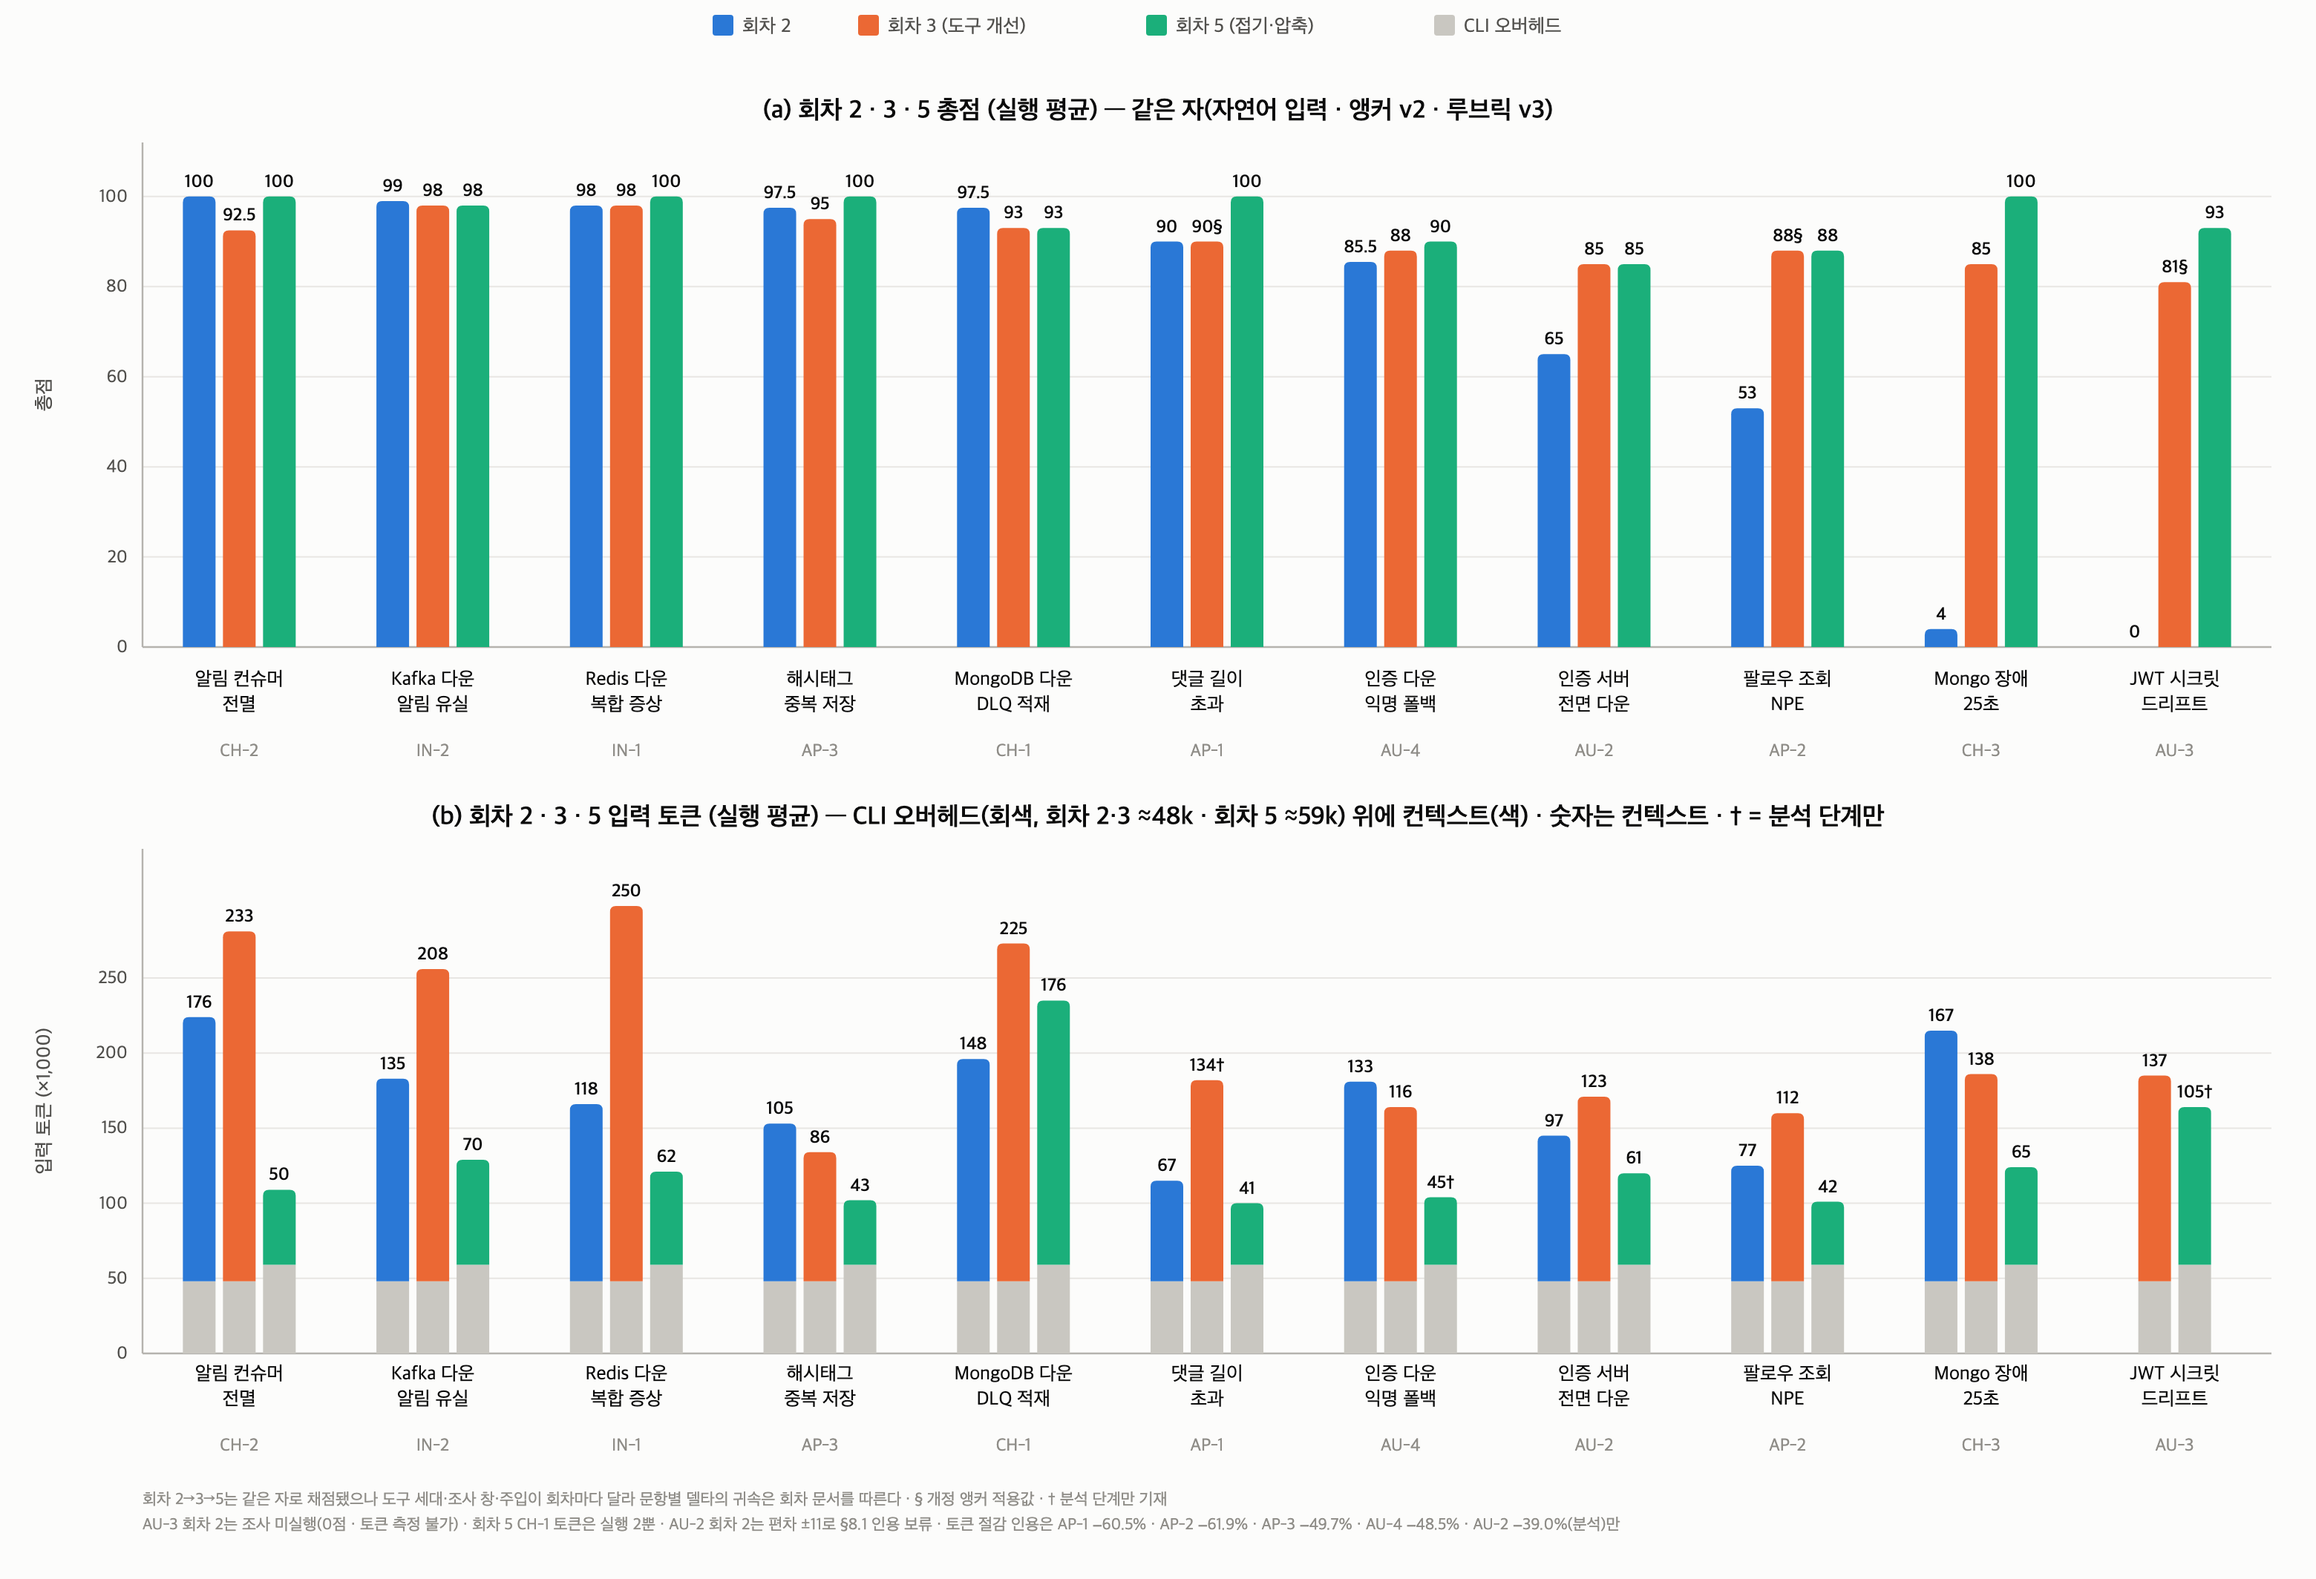
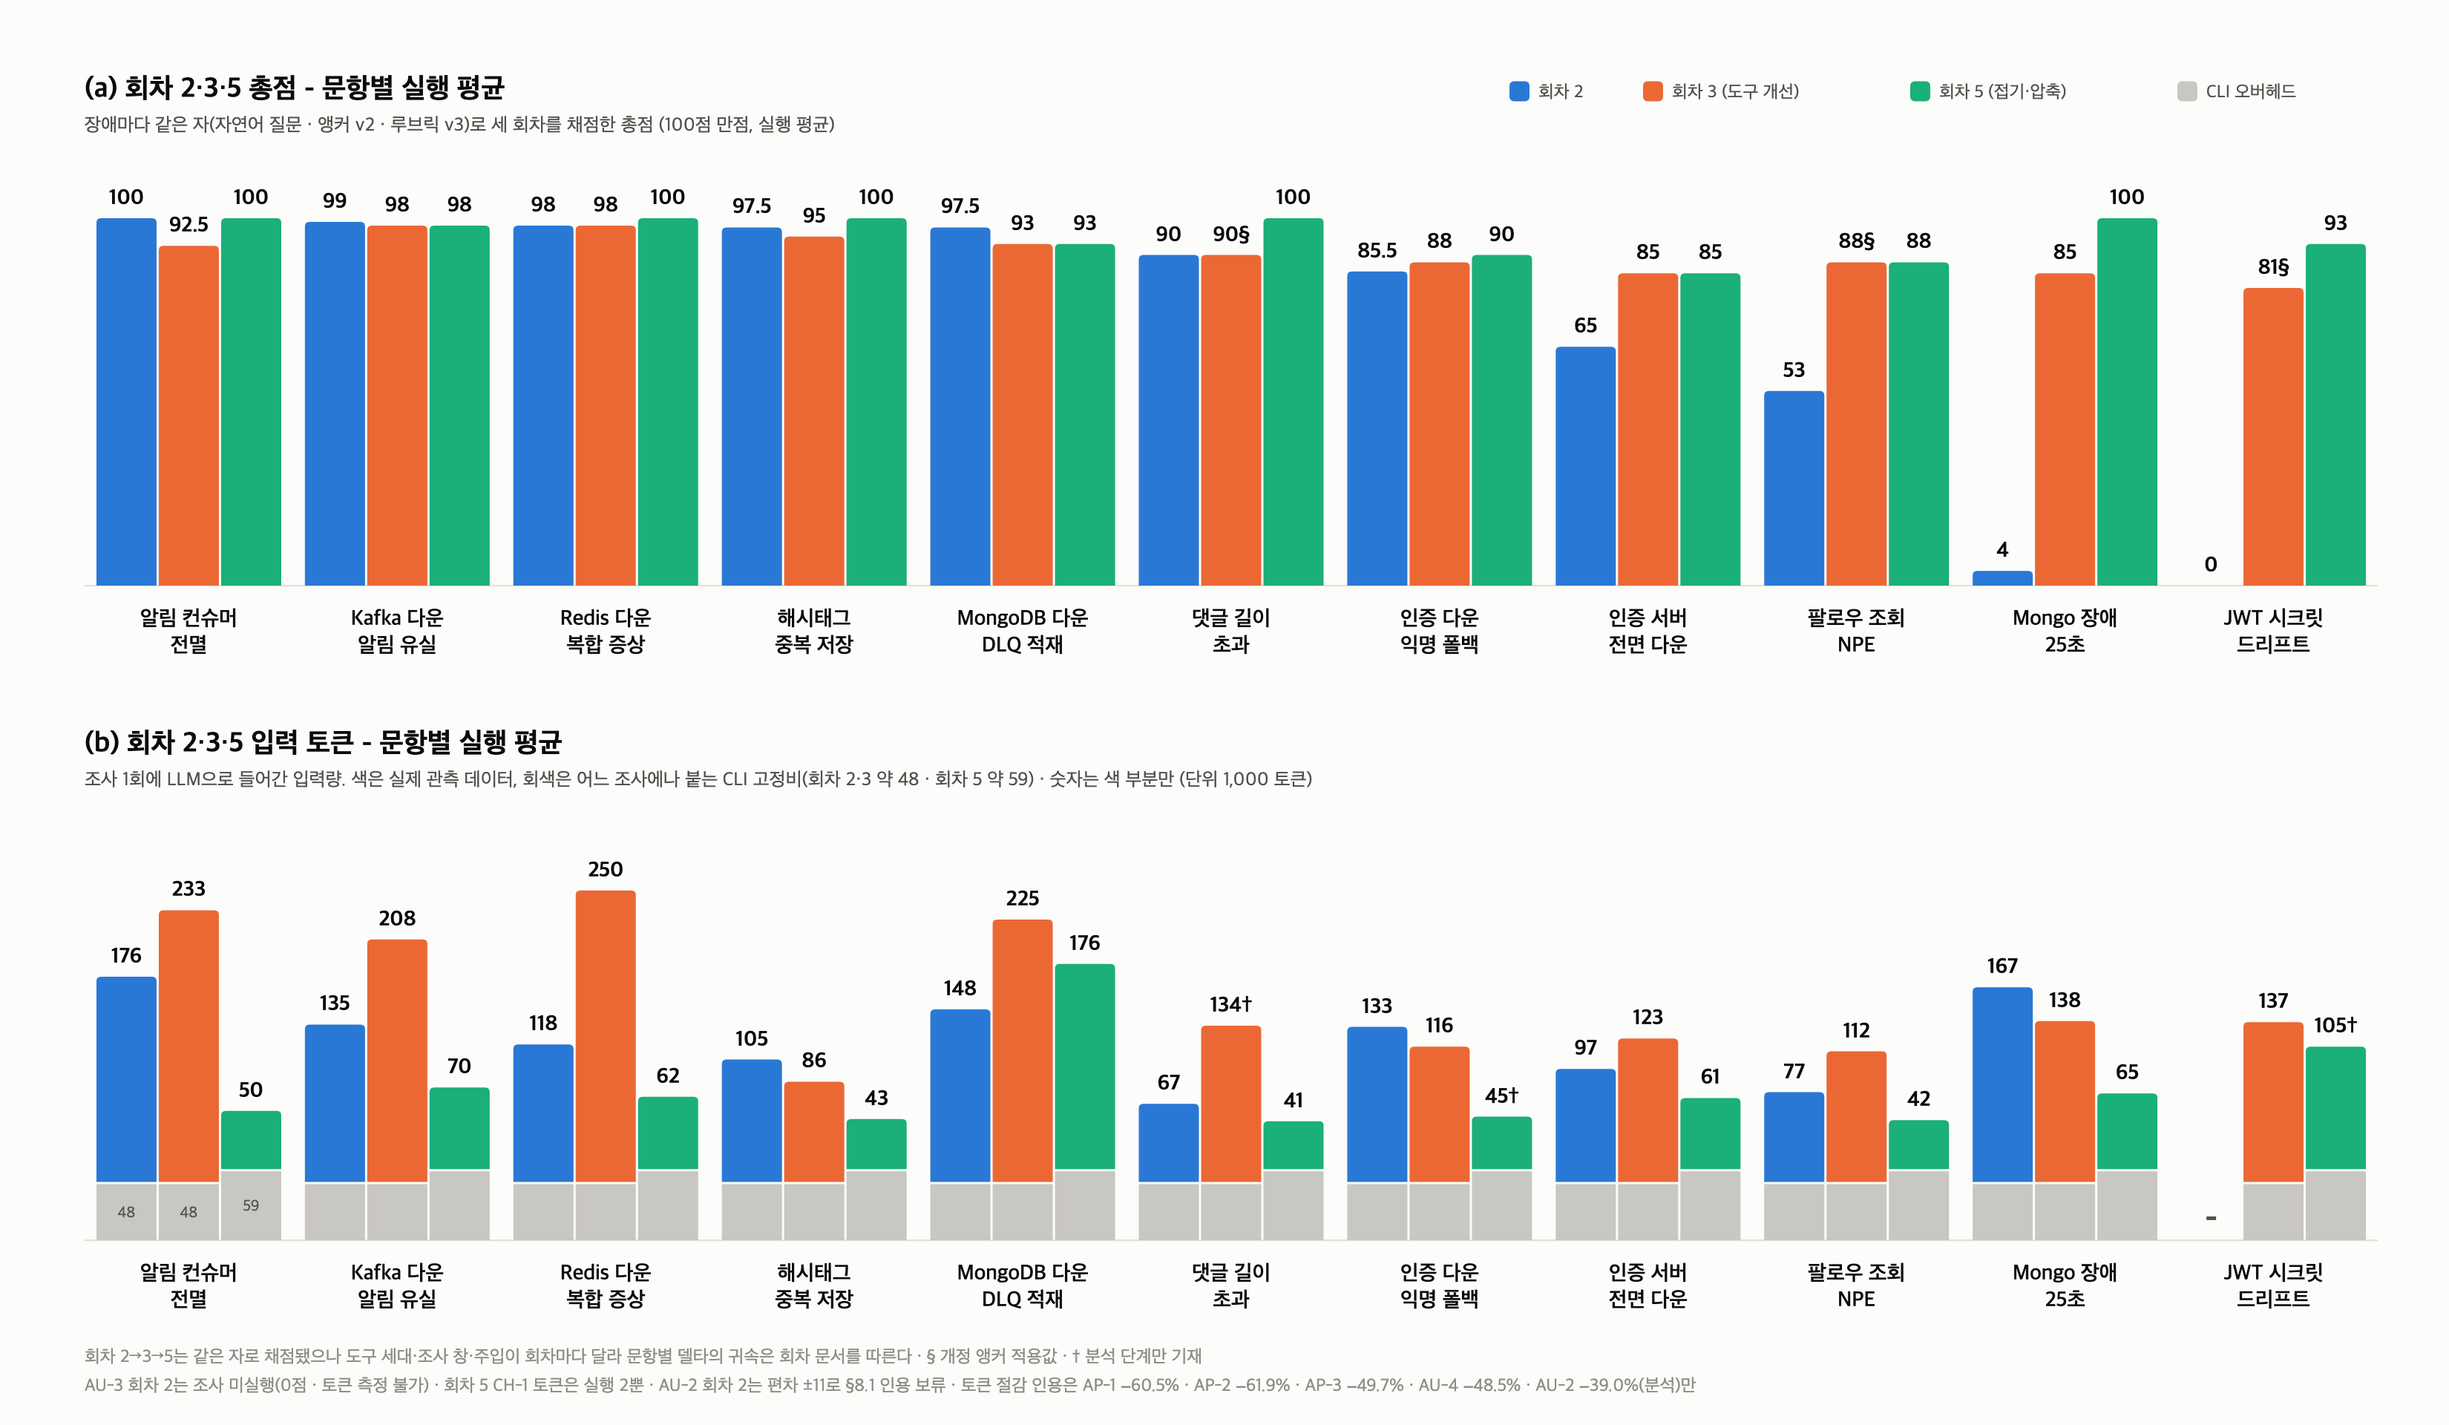
README 현행화(회차 2~5·프로젝트 구조) · 회차 2·3·5 통합 차트를 round-2 판형으로 재작성

diff --git a/docs/charts/make-round235-chart.js b/docs/charts/make-round235-chart.js
@@ -1,0 +1,144 @@
+/**
+ * docs/charts/round-2-3-5-score-tokens.svg 생성기.
+ *
+ * make-round2-chart.js와 같은 판형이다 — 데이터·문안은 기존 SVG(e71aa30) 그대로 두고,
+ * 문항 ID 행을 지우고 눈금 대신 막대 위 직접 라벨을 쓰는 판독성 개선판.
+ *
+ *   node docs/charts/make-round235-chart.js
+ *
+ * 시리즈 색은 회차 2 파랑 · 회차 3 주황 · 회차 5 청록 — 3색 조합은 CVD ΔE 9.2로 검증됐고,
+ * 청록은 표면 대비 2.74:1이라 색만으로는 안 읽힌다 → 모든 막대에 값 라벨을 직접 붙인다.
+ */
+const fs = require('fs');
+const path = require('path');
+
+// 채점 대장 기준 실행 평균. tok은 컨텍스트 토큰(오버헤드 제외, ×1,000).
+// s2/s3/s5 = 회차별 총점, t2/t3/t5 = 회차별 토큰. null = 측정 불가(AU-3 회차 2 미실행).
+// § = 개정 앵커 적용값 · † = 분석 단계만 기재 — 라벨 문자열에 그대로 싣는다.
+// 문항 ID는 출처 추적용으로만 둔다 - 차트에는 그리지 않는다.
+// 순서는 회차 2 총점 내림차순 — round-2 차트와 같은 자리여야 옆에 놓고 대조가 된다.
+const ITEMS = [
+  { id: 'CH-2', name: ['알림 컨슈머', '전멸'],     s: [100, '92.5', 100],   t: [176, 233, 50] },
+  { id: 'IN-2', name: ['Kafka 다운', '알림 유실'], s: [99, 98, 98],         t: [135, 208, 70] },
+  { id: 'IN-1', name: ['Redis 다운', '복합 증상'], s: [98, 98, 100],        t: [118, 250, 62] },
+  { id: 'AP-3', name: ['해시태그', '중복 저장'],   s: ['97.5', 95, 100],    t: [105, 86, 43] },
+  { id: 'CH-1', name: ['MongoDB 다운', 'DLQ 적재'],s: ['97.5', 93, 93],     t: [148, 225, 176] },
+  { id: 'AP-1', name: ['댓글 길이', '초과'],       s: [90, '90§', 100],     t: [67, '134†', 41] },
+  { id: 'AU-4', name: ['인증 다운', '익명 폴백'],  s: ['85.5', 88, 90],     t: [133, 116, '45†'] },
+  { id: 'AU-2', name: ['인증 서버', '전면 다운'],  s: [65, 85, 85],         t: [97, 123, 61] },
+  { id: 'AP-2', name: ['팔로우 조회', 'NPE'],      s: [53, '88§', 88],      t: [77, 112, 42] },
+  { id: 'CH-3', name: ['Mongo 장애', '25초'],      s: [4, 85, 100],         t: [167, 138, 65] },
+  { id: 'AU-3', name: ['JWT 시크릿', '드리프트'],  s: [0, '81§', 93],       t: [null, 137, '105†'] },
+];
+
+const SERIES = [
+  { label: '회차 2',             color: '#2a78d6', overhead: 48 },
+  { label: '회차 3 (도구 개선)', color: '#eb6834', overhead: 48 },
+  { label: '회차 5 (접기·압축)', color: '#1baf7a', overhead: 59 },
+];
+const C = {
+  bg: '#fcfcfb', gray: '#c9c7c1',
+  ink: '#0b0b0b', mid: '#52514e', faint: '#8f8d88', rule: '#e2e0dc',
+};
+const FONT = "'Malgun Gothic','맑은 고딕','Apple SD Gothic Neo',sans-serif";
+
+const W = 2200, H = 1280;
+const PAD = { left: 76, right: 64 };
+const PLOT_W = W - PAD.left - PAD.right;
+const PLOT_H = 330;
+const A_TOP = 196, B_TOP = 784;
+const STEP = PLOT_W / ITEMS.length;
+const BARW = 54, PITCH = BARW + 2;      // 그룹 안 이웃 막대는 표면 2px 간격
+
+const num = (v) => parseFloat(String(v));  // '92.5' · '134†' → 수치
+const esc = (s) => String(s).replace(/&/g, '&amp;').replace(/</g, '&lt;');
+const out = [];
+const push = (s) => out.push(s);
+
+const text = (x, y, s, { size = 17, fill = C.ink, anchor = 'middle', weight = 400 } = {}) =>
+  `<text x="${x}" y="${y}" font-size="${size}" fill="${fill}" text-anchor="${anchor}"` +
+  `${weight !== 400 ? ` font-weight="${weight}"` : ''}>${esc(s)}</text>`;
+
+/** 위쪽 두 모서리만 둥근 막대. h가 반지름보다 작으면 사각으로 떨어진다. */
+function bar(cx, base, h, fill, r = 4) {
+  if (h <= 0) return '';
+  const x = cx - BARW / 2, y = base - h, rr = Math.min(r, h);
+  return `<path d="M${x} ${base} V${y + rr} Q${x} ${y} ${x + rr} ${y} H${x + BARW - rr} ` +
+         `Q${x + BARW} ${y} ${x + BARW} ${y + rr} V${base} Z" fill="${fill}"/>`;
+}
+
+/** 패널 하나 — 제목·부제는 왼쪽 정렬, 눈금 대신 막대 위 직접 라벨. 문항 ID 행은 없다. */
+function panel(top, title, subtitle, draw) {
+  const base = top + PLOT_H;
+  push(text(PAD.left, top - 108, title, { size: 25, weight: 700, anchor: 'start' }));
+  push(text(PAD.left, top - 78, subtitle, { size: 17, fill: C.mid, anchor: 'start' }));
+  push(`<line x1="${PAD.left}" y1="${base}" x2="${W - PAD.right}" y2="${base}" stroke="${C.rule}" stroke-width="1.5"/>`);
+  ITEMS.forEach((item, i) => {
+    const cx = PAD.left + STEP * i + STEP / 2;
+    SERIES.forEach((se, k) => draw(item, se, k, cx + (k - 1) * PITCH, base));
+    push(text(cx, base + 36, item.name[0], { size: 19, weight: 600 }));
+    push(text(cx, base + 60, item.name[1], { size: 19, weight: 600 }));
+  });
+}
+
+push(`<svg xmlns="http://www.w3.org/2000/svg" width="${W}" height="${H}" viewBox="0 0 ${W} ${H}" font-family="${FONT}">`);
+push(`<rect width="${W}" height="${H}" fill="${C.bg}"/>`);
+
+// 범례 — 오른쪽 위 한 번. 회색 오버헤드는 (b)에만 나오지만 항목은 여기 같이 둔다.
+{
+  const entries = [...SERIES.map((s) => [s.label, s.color]), ['CLI 오버헤드', C.gray]];
+  const widths = entries.map(([label]) => 26 + label.length * 15 + 34);
+  let x = W - PAD.right - widths.reduce((a, b) => a + b, 0);
+  const y = A_TOP - 108;
+  entries.forEach(([label, color], i) => {
+    push(`<rect x="${x}" y="${y - 15}" width="18" height="18" rx="4" fill="${color}"/>`);
+    push(text(x + 26, y, label, { size: 16, fill: C.mid, anchor: 'start' }));
+    x += widths[i];
+  });
+}
+
+// (a) 총점 — 값은 막대마다 직접 붙는다. 0점은 막대 없이 숫자만.
+const scoreScale = (v) => (v / 100) * PLOT_H;
+panel(A_TOP,
+  '(a) 회차 2·3·5 총점 - 문항별 실행 평균',
+  '장애마다 같은 자(자연어 질문 · 앵커 v2 · 루브릭 v3)로 세 회차를 채점한 총점 (100점 만점, 실행 평균)',
+  (item, se, k, cx, base) => {
+    const h = scoreScale(num(item.s[k]));
+    push(bar(cx, base, h, se.color));
+    push(text(cx, base - h - 12, item.s[k], { size: 19, weight: 700 }));
+  });
+
+// (b) 입력 토큰 — 회색 오버헤드 위에 컨텍스트를 쌓는다. 숫자는 컨텍스트만.
+const TOK_MAX = 315;                    // 최대 250 + 오버헤드 59
+const tokScale = (v) => (v / TOK_MAX) * PLOT_H;
+panel(B_TOP,
+  '(b) 회차 2·3·5 입력 토큰 - 문항별 실행 평균',
+  '조사 1회에 LLM으로 들어간 입력량. 색은 실제 관측 데이터, 회색은 어느 조사에나 붙는 CLI 고정비(회차 2·3 약 48 · 회차 5 약 59) · 숫자는 색 부분만 (단위 1,000 토큰)',
+  (item, se, k, cx, base) => {
+    if (item.t[k] == null) {
+      push(text(cx, base - 10, '-', { size: 30, fill: C.mid, weight: 700 }));
+      return;
+    }
+    const ho = tokScale(se.overhead), hc = tokScale(num(item.t[k]));
+    push(bar(cx, base, ho, C.gray, 0));
+    push(bar(cx, base - ho - 2, hc, se.color));
+    push(text(cx, base - ho - 2 - hc - 12, item.t[k], { size: 19, weight: 700 }));
+  });
+// 회색은 대비가 낮아 보이는 라벨이 필요하다. 값이 시리즈별 상수라 첫 그룹 띠 안에 한 번만 적는다.
+SERIES.forEach((se, k) => {
+  const cx = PAD.left + STEP / 2 + (k - 1) * PITCH;
+  const y = B_TOP + PLOT_H - tokScale(se.overhead) / 2 + 5;
+  push(text(cx, y, se.overhead, { size: 14, fill: C.mid }));
+});
+
+push(text(PAD.left, H - 56,
+  '회차 2→3→5는 같은 자로 채점됐으나 도구 세대·조사 창·주입이 회차마다 달라 문항별 델타의 귀속은 회차 문서를 따른다 · § 개정 앵커 적용값 · † 분석 단계만 기재',
+  { size: 16, fill: C.faint, anchor: 'start' }));
+push(text(PAD.left, H - 30,
+  'AU-3 회차 2는 조사 미실행(0점 · 토큰 측정 불가) · 회차 5 CH-1 토큰은 실행 2뿐 · AU-2 회차 2는 편차 ±11로 §8.1 인용 보류 · 토큰 절감 인용은 AP-1 −60.5% · AP-2 −61.9% · AP-3 −49.7% · AU-4 −48.5% · AU-2 −39.0%(분석)만',
+  { size: 16, fill: C.faint, anchor: 'start' }));
+push('</svg>');
+
+const dest = path.join(__dirname, 'round-2-3-5-score-tokens.svg');
+fs.writeFileSync(dest, out.join(''), 'utf8');
+console.log('wrote', dest);
